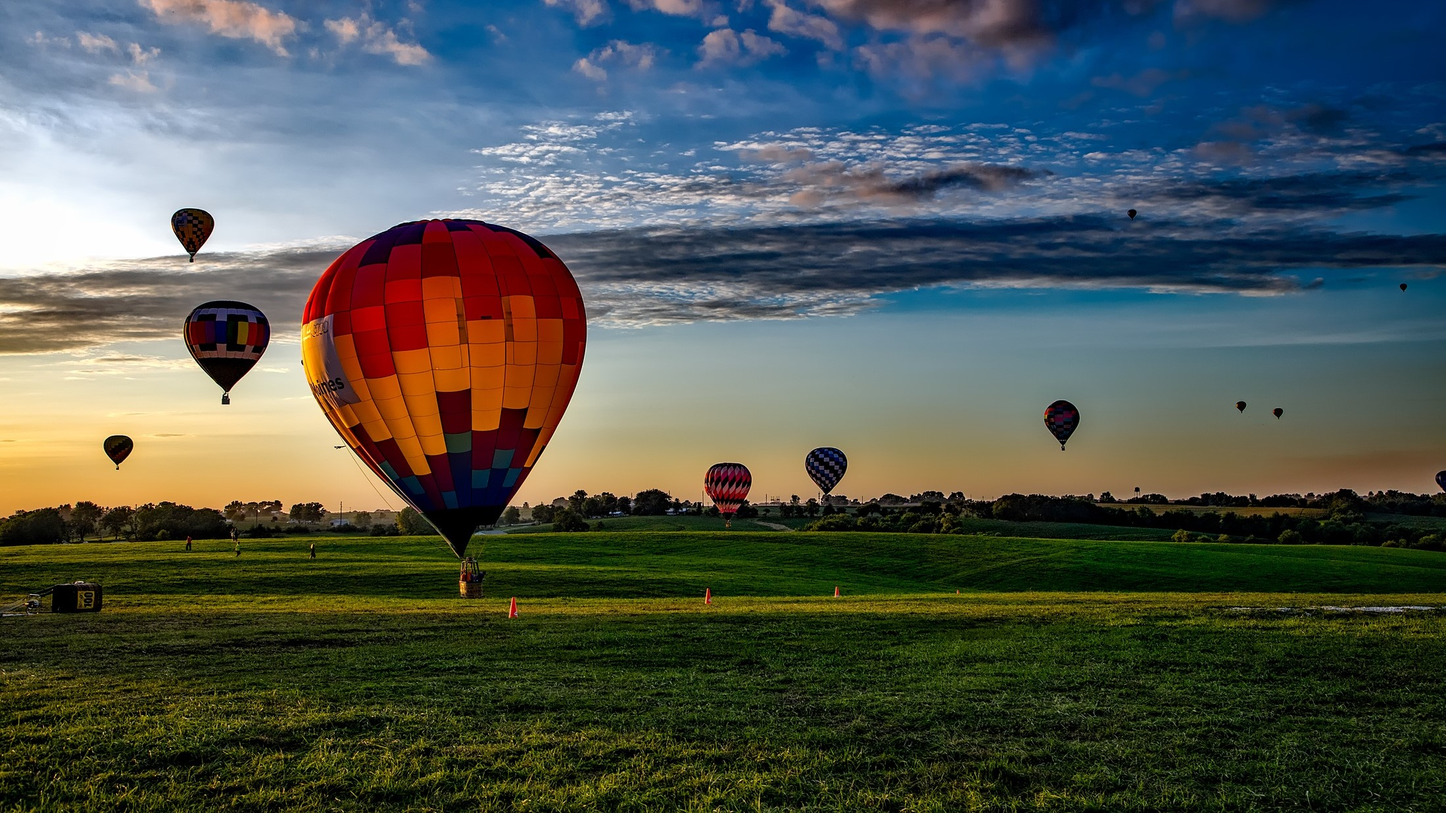
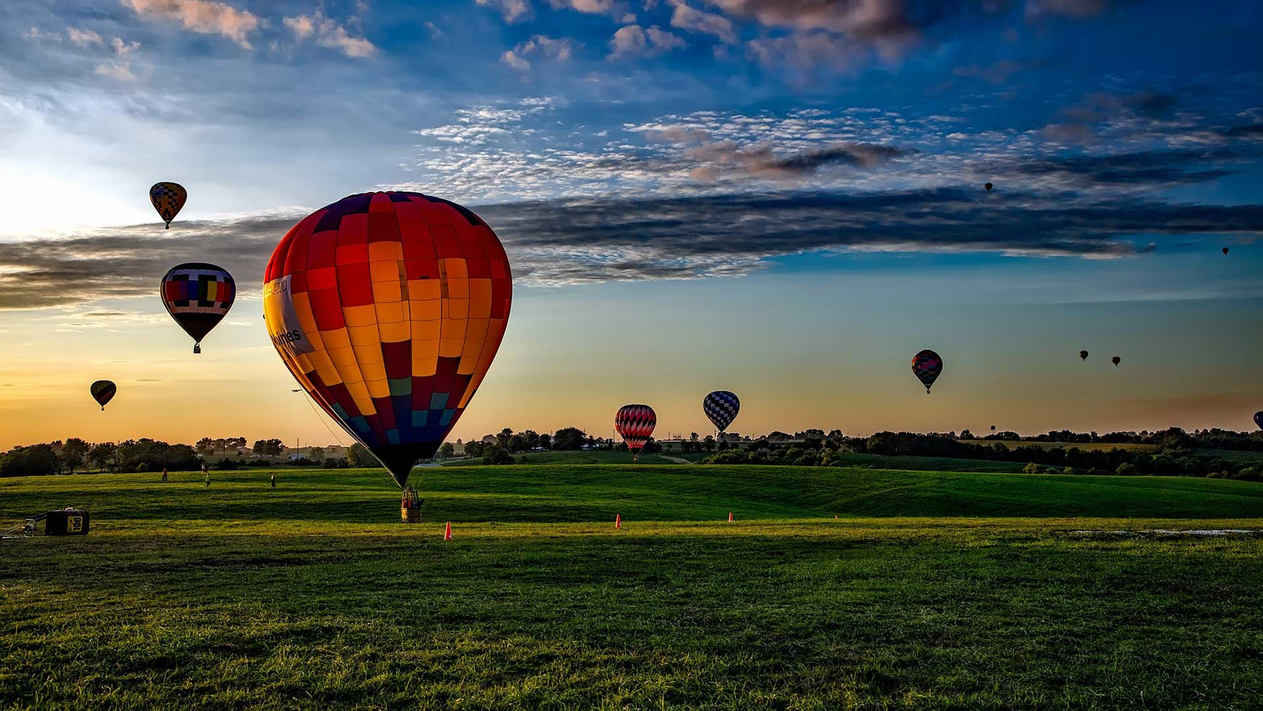
Optimized image sizes for faster loading

diff --git a/js/script.js b/js/script.js
@@ -289,47 +289,4 @@ $("#hero-slider").on('mouseleave', function(event) {
 });
 
 
-var gn = new GyroNorm();
-
-var args = {
-	frequency:30,					// ( How often the object sends the values - milliseconds )
-	logger:null					// ( Function to be called to log messages from gyronorm.js )
-};
-
-
-var activeSliderImage;
-
-gn.init(args).then(function(){
-  gn.start(function(data){
-
-    if(!$("html").hasClass('touch')) { 
-      return false;
-    }
-
-    var activeSliderImage =  $("#hero-slider").find('.slick-active img').css('transform', '');    
-    var percentOffset;
-    
-
-    if(data.do.gamma > 30) {
-      percentOffset = 1;
-    } else if (data.do.gamma < -30 ) {
-      percentOffset = -1;
-    } else {
-      percentOffset = (data.do.gamma / 30);
-    }
-
-    var hoverOffset =  (( activeSliderImage.width() - $window.width() ) / 2 ) * (Math.abs(percentOffset) /2);
-    var baseTransform = parseInt(activeSliderImage.css('transform').split(',')[5]) * 1.75;
-
-    if(percentOffset < 0) {
-      activeSliderImage.css('transform',  'translate(' + (baseTransform - hoverOffset) + 'px,-50%)');
-    } else {
-      activeSliderImage.css('transform',  'translate(' + (baseTransform + hoverOffset) + 'px,-50%)');
-    }
-
-    $('.copyright').html(activeSliderImage.css('transform') + ' ' + baseTransform + ' ' + hoverOffset);
-    
-    
-  });
-});
 

diff --git a/index.html b/index.html
@@ -550,8 +550,8 @@
     <div class="pre-footer">
 
       <div class="stars-animation">
-        <img src="img/stars.png" alt="Stars" id="stars-front">
-        <img src="img/stars.png" alt="Stars" id="stars-back">
+        <img data-echo="img/stars.png" alt="Stars" id="stars-front">
+        <img data-echo="img/stars.png" alt="Stars" id="stars-back">
       </div>
 
 
@@ -688,7 +688,7 @@
       <a href="#" id="lightbox-close">&times;</a>
       <p class="image-index"><span id="lightbox-current-index">1</span> / <span id="lightbox-count">2</span></p>
       <figure>
-        <img src="img/placeholder.jpg" alt="" id="lightbox-active-image">
+        <img src="" alt="" id="lightbox-active-image">
         <a href="#" id="lightbox-next">
             <i class="fa fa-angle-right" aria-hidden="true"></i>
           </a>
@@ -716,9 +716,6 @@
 
   <!-- Echo  -->
   <script src="js/echo.js"></script>
-
-  <!-- Gyronorm  -->
-  <script src="js/gyronorm.complete.min.js"></script>
   
   <!-- Custom Script -->
   <script src="js/script.js"></script>

diff --git a/css/style.css b/css/style.css
@@ -371,10 +371,9 @@ h2 {
     height: 100%;
     z-index: -10;
     transform: translate3d(0, 0, 0);
-    background: url("../img/sand.png");
+    background: url("../img/sand.jpg");
     background-repeat: repeat;
-    background-position: center;
-    background-color: #000; }
+    background-position: center; }
     .other-services-section .bg-sand:before {
       content: "";
       display: block;

diff --git a/css/partials/modules/other-services.scss b/css/partials/modules/other-services.scss
@@ -12,10 +12,9 @@
         height: 100%;
         z-index: -10;
         transform: translate3d(0,0,0);  
-        background:  url('../img/sand.png');
+        background:  url('../img/sand.jpg');
         background-repeat:  repeat;
         background-position: center;
-        background-color: #000;
 
         &:before {
             content: "";
